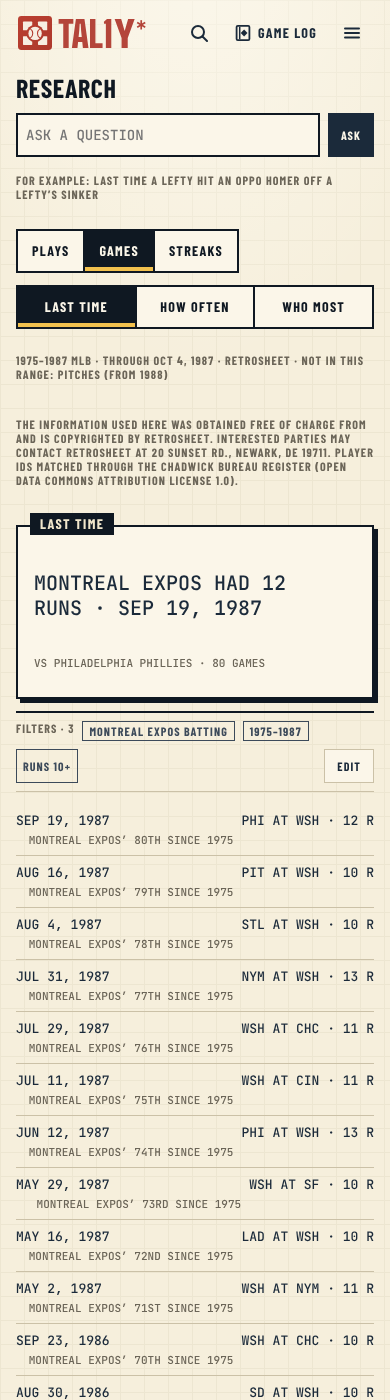
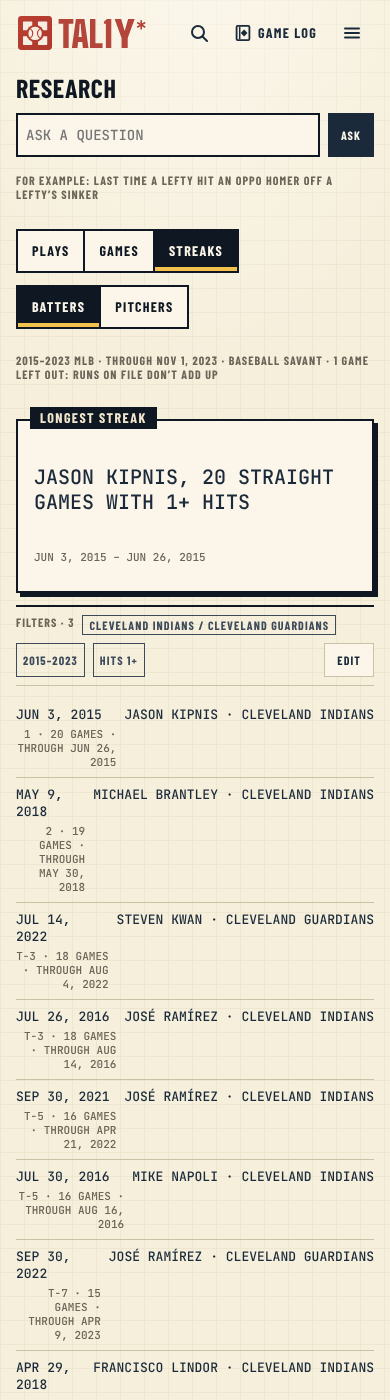
Research streaks: name clubs by their era in streak rows (#3167)
A streak row names its club for the season the streak began (a streak
across a rename reads its first game's name), in the phone rows and the
wide table, through the era namer from #3165.

Claude-Session: https://claude.ai/code/session_0143SztmaEGsYE4ou3uBYkmb

Changed region(s): [[0.0308, 0.1536, 0.9846, 1.0], [0.9538, 0.215, 0.9846, 0.2457]]

diff --git a/src/screens/research/StreakView.jsx b/src/screens/research/StreakView.jsx
@@ -1,5 +1,4 @@
 import { useState } from 'react'
-import { clubName } from '../../api/research/filters.js'
 import { RUNS_INFO, STREAK_STATS } from '../../api/research/streaks.js'
 import { PlayerLink } from '../../components/player/PlayerLink.jsx'
 import { labelDate as shortDate } from '../../lib/time/standingsDates.js'
@@ -10,6 +9,7 @@ import { Cluster } from '../../components/ui/layout/Cluster.jsx'
 import { Stack } from '../../components/ui/layout/Stack.jsx'
 import { Table } from '../../components/ui/table/Table.jsx'
 import { BoxDate } from './AnswerView.jsx'
+import { streakClub } from './useEraClubNames.js'
 import { RangeCard } from './GameCards.jsx'
 import { rangeWords } from '../../api/research/games.js'
 
@@ -93,13 +93,13 @@ export function StreakAnswerCard({ q, a, people, asOf }) {
   )
 }
 
-function Rows({ rows, all, people, asOf, q }) {
+function Rows({ rows, all, people, asOf, q, name }) {
   return (
     <ul className="research__rows">
       {rows.map((s) => (
         <li key={`${s.player}-${s.first.gamePk}`} className="research__row">
           <span className="research__date"><BoxDate m={s.first}>{shortDate(s.first.date)}</BoxDate></span>
-          <span><Name id={s.player} people={people} /> · {clubName(s.team)}</span>
+          <span><Name id={s.player} people={people} /> · {streakClub(s, name)}</span>
           <span className="research__ord">{rankText(s, all)} · {s.len} {gameWord(q, s.len)} · {s.active ? <span className="research__active">{through(s, asOf)}</span> : `through ${shortDate(s.last.date)}`}</span>
         </li>
       ))}
@@ -107,7 +107,7 @@ function Rows({ rows, all, people, asOf, q }) {
   )
 }
 
-function StreakTable({ rows, all, people, asOf, q }) {
+function StreakTable({ rows, all, people, asOf, q, name }) {
   return (
     <Table label="Longest streaks" className="research__table">
       <thead><tr><th className="research__num">#</th><th>Player</th><th>Club</th><th className="research__num">{q.s.side === 'pit' && q.s.starts ? 'Starts' : 'Games'}</th><th>From</th><th>Through</th></tr></thead>
@@ -116,7 +116,7 @@ function StreakTable({ rows, all, people, asOf, q }) {
           <tr key={`${s.player}-${s.first.gamePk}`}>
             <td className="research__num">{rankText(s, all)}</td>
             <td><Name id={s.player} people={people} /></td>
-            <td>{clubName(s.team)}</td>
+            <td>{streakClub(s, name)}</td>
             <td className="research__num">{s.len}</td>
             <td><BoxDate m={s.first}>{shortDate(s.first.date)}</BoxDate></td>
             <td>{s.active ? <span className="research__active">{through(s, asOf)}</span> : <BoxDate m={s.last}>{shortDate(s.last.date)}</BoxDate>}</td>
@@ -127,13 +127,13 @@ function StreakTable({ rows, all, people, asOf, q }) {
   )
 }
 
-export function StreakMatches({ q, a, people, wide, asOf }) {
+export function StreakMatches({ q, a, people, wide, asOf, name }) {
   const [shown, setShown] = useState(PAGE)
   if (!a.top.length) return null
   const rows = a.top.slice(0, shown)
   return (
     <Stack>
-      {wide ? <StreakTable rows={rows} all={a.top} people={people} asOf={asOf} q={q} /> : <Rows rows={rows} all={a.top} people={people} asOf={asOf} q={q} />}
+      {wide ? <StreakTable rows={rows} all={a.top} people={people} asOf={asOf} q={q} name={name} /> : <Rows rows={rows} all={a.top} people={people} asOf={asOf} q={q} name={name} />}
       {a.top.length > shown && <Button size="control" onClick={() => setShown(a.top.length)}>Show {a.top.length - shown} more</Button>}
     </Stack>
   )

diff --git a/src/screens/research/ResearchPage.jsx b/src/screens/research/ResearchPage.jsx
@@ -149,13 +149,15 @@ export function ResearchPage() {
   const start = !game && !streak && blank && !Object.keys(q.chips).length && !q.years
   const result = run?.result ?? null
   const progress = run?.progress
-  // A game answer names its own clubs too (#3165): every club in its matches and leaders.
+  // A game answer names its own clubs too (#3165): every club in its matches and leaders;
+  // a streak answer its streaks' clubs (#3167).
   const answerClubs = useMemo(() => {
+    if (streak && result) return [...new Set((result.top ?? []).map((s) => s.team))]
     if (!game || !result) return []
     const out = new Set((result.clubs ?? []).map((c) => c.club))
     for (const m of result.matches) out.add(m.club).add(m.batTeam).add(m.fieldTeam)
     return [...out]
-  }, [game, result])
+  }, [game, streak, result])
   const eraName = useEraClubNames([q.team, q.pitchTeam, q.park, ...answerClubs], targets.length ? Math.min(...targets) : null, targets.length ? Math.max(...targets) : null)
   const pills = data ? pillsOf(live, people, eraName) : []
   const onAsk = (text) => {
@@ -241,7 +243,7 @@ export function ResearchPage() {
       )}
       {result && !game && !streak && <AskTables ask={q.ask} q={q} a={result} people={people} onChange={setQ} />}
       {result && !game && !streak && <MatchList key={searchKey(q)} a={result} people={people} wide={wide} wp={live.wp} />}
-      {result && streak && <StreakMatches key={searchKey(q)} q={live} a={result} people={people} wide={wide} asOf={cover?.through} />}
+      {result && streak && <StreakMatches key={searchKey(q)} q={live} a={result} people={people} wide={wide} asOf={cover?.through} name={eraName} />}
       {result && game && <GameMatches key={searchKey(q)} ask={live.ask} q={live} a={result} wide={wide} since={cover?.first} name={eraName} />}
     </Stack>
   )

diff --git a/test/research-history.test.js b/test/research-history.test.js
@@ -181,3 +181,11 @@ test('eraNamer: a game reads its season’s name, a range reads every name in it
   assert.equal(name('MIL', 1987), 'Milwaukee Brewers', 'a club not loaded reads today’s name')
   assert.equal(eraNamer(spans, null, null)('WSH'), 'Washington Nationals', 'no range: today’s name')
 })
+
+// #3167: a streak row names its club for the season the streak began (Gary, 2026-11-17).
+test('streakClub: a streak reads its first game’s season name, even across a rename', async () => {
+  const { eraNamer, streakClub } = await import('../src/screens/research/useEraClubNames.js')
+  const name = eraNamer({ CLE: [{ from: 1915, to: 2021, name: 'Cleveland Indians' }, { from: 2022, to: 2025, name: 'Cleveland Guardians' }] }, 2015, 2026)
+  assert.equal(streakClub({ team: 'CLE', first: { date: '2021-09-20' } }, name), 'Cleveland Indians')
+  assert.equal(streakClub({ team: 'CLE', first: { date: '2023-05-01' } }, name), 'Cleveland Guardians')
+})

diff --git a/src/screens/research/useEraClubNames.js b/src/screens/research/useEraClubNames.js
@@ -30,6 +30,10 @@ export function eraNamer(spans, lo, hi) {
   }
 }
 
+// A streak row's club, named for the season the streak began (Gary, 2026-11-17, #3167): a
+// streak across a rename reads its first game's name.
+export const streakClub = (s, name) => name(s.team, Number(s.first.date.slice(0, 4)))
+
 // Each club's franchise spans, loaded once and kept (franchiseFor caches the request). A
 // club's spans do not depend on the range, so a loaded club never goes stale: a search that
 // adds clubs season by season names the ones already loaded throughout. A failed load
